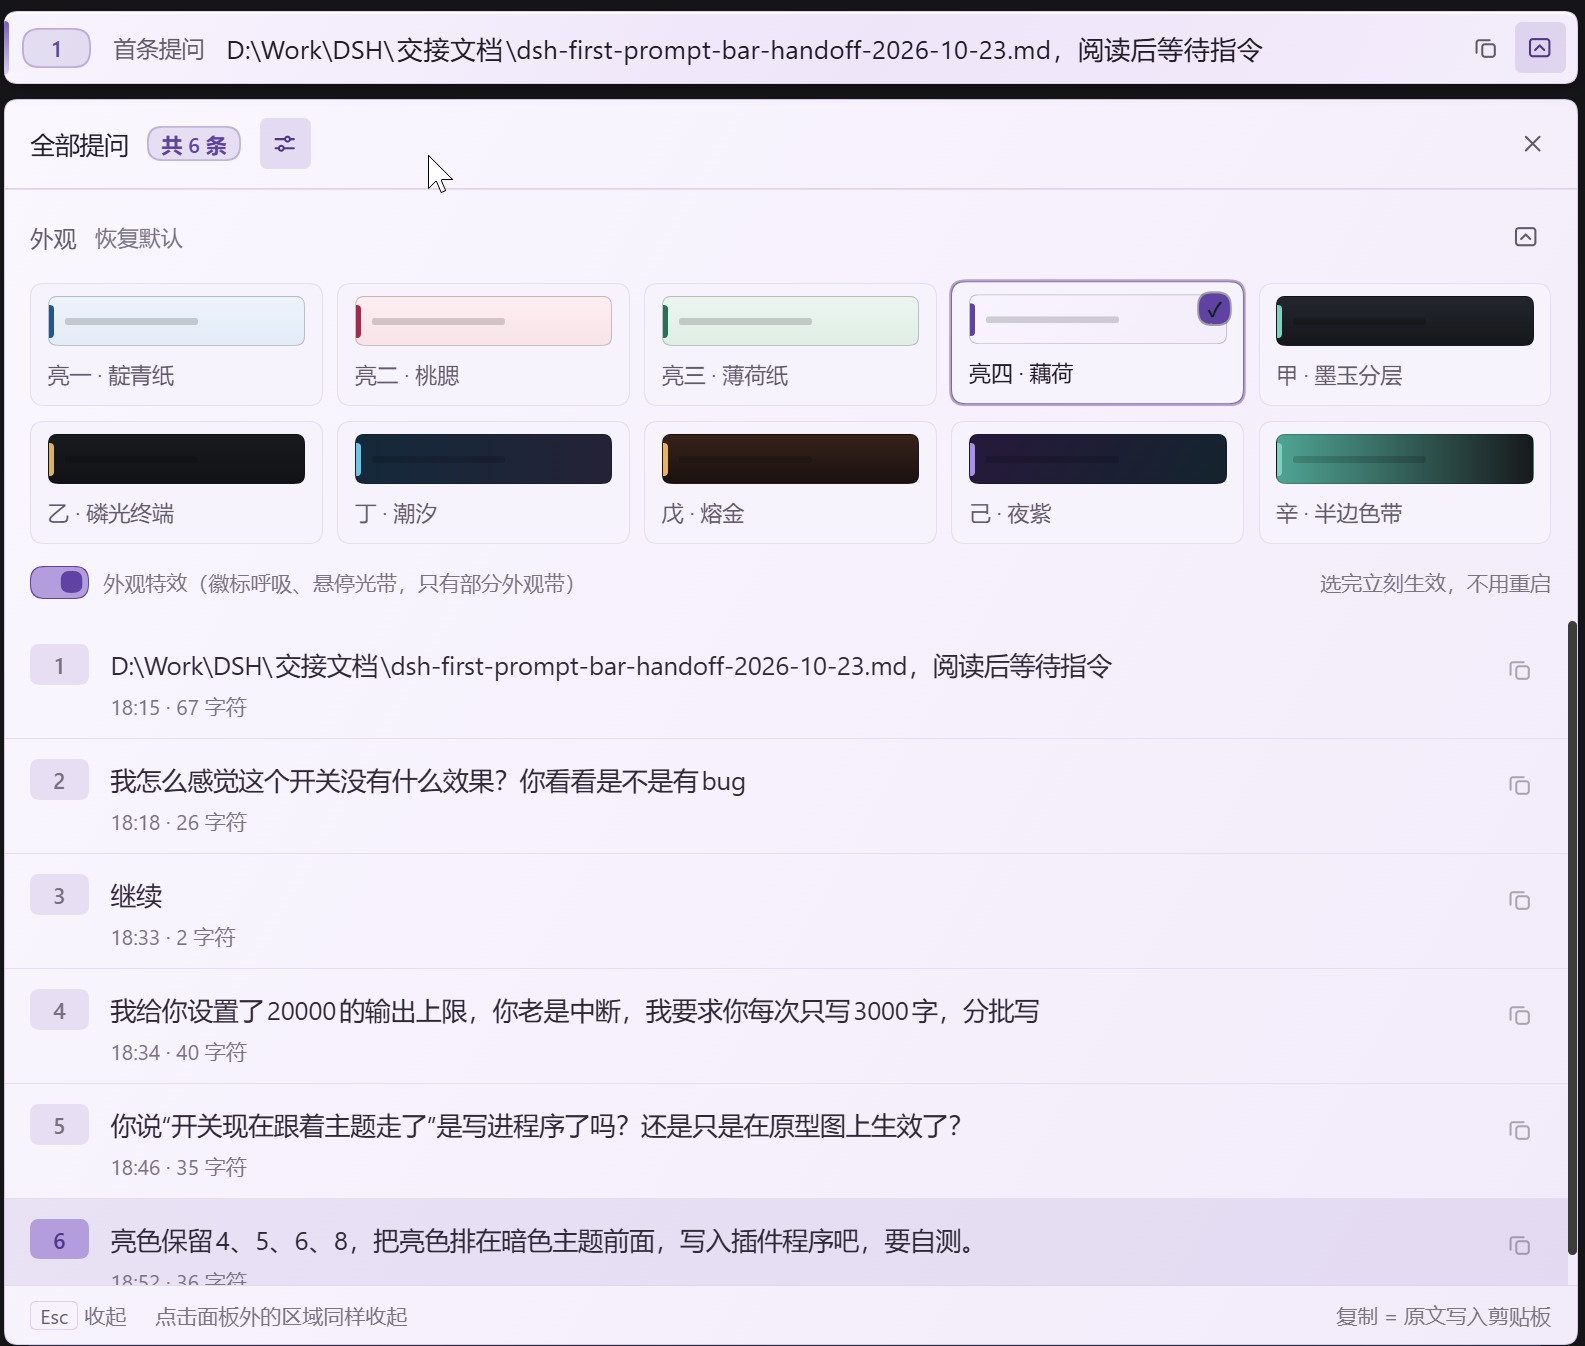
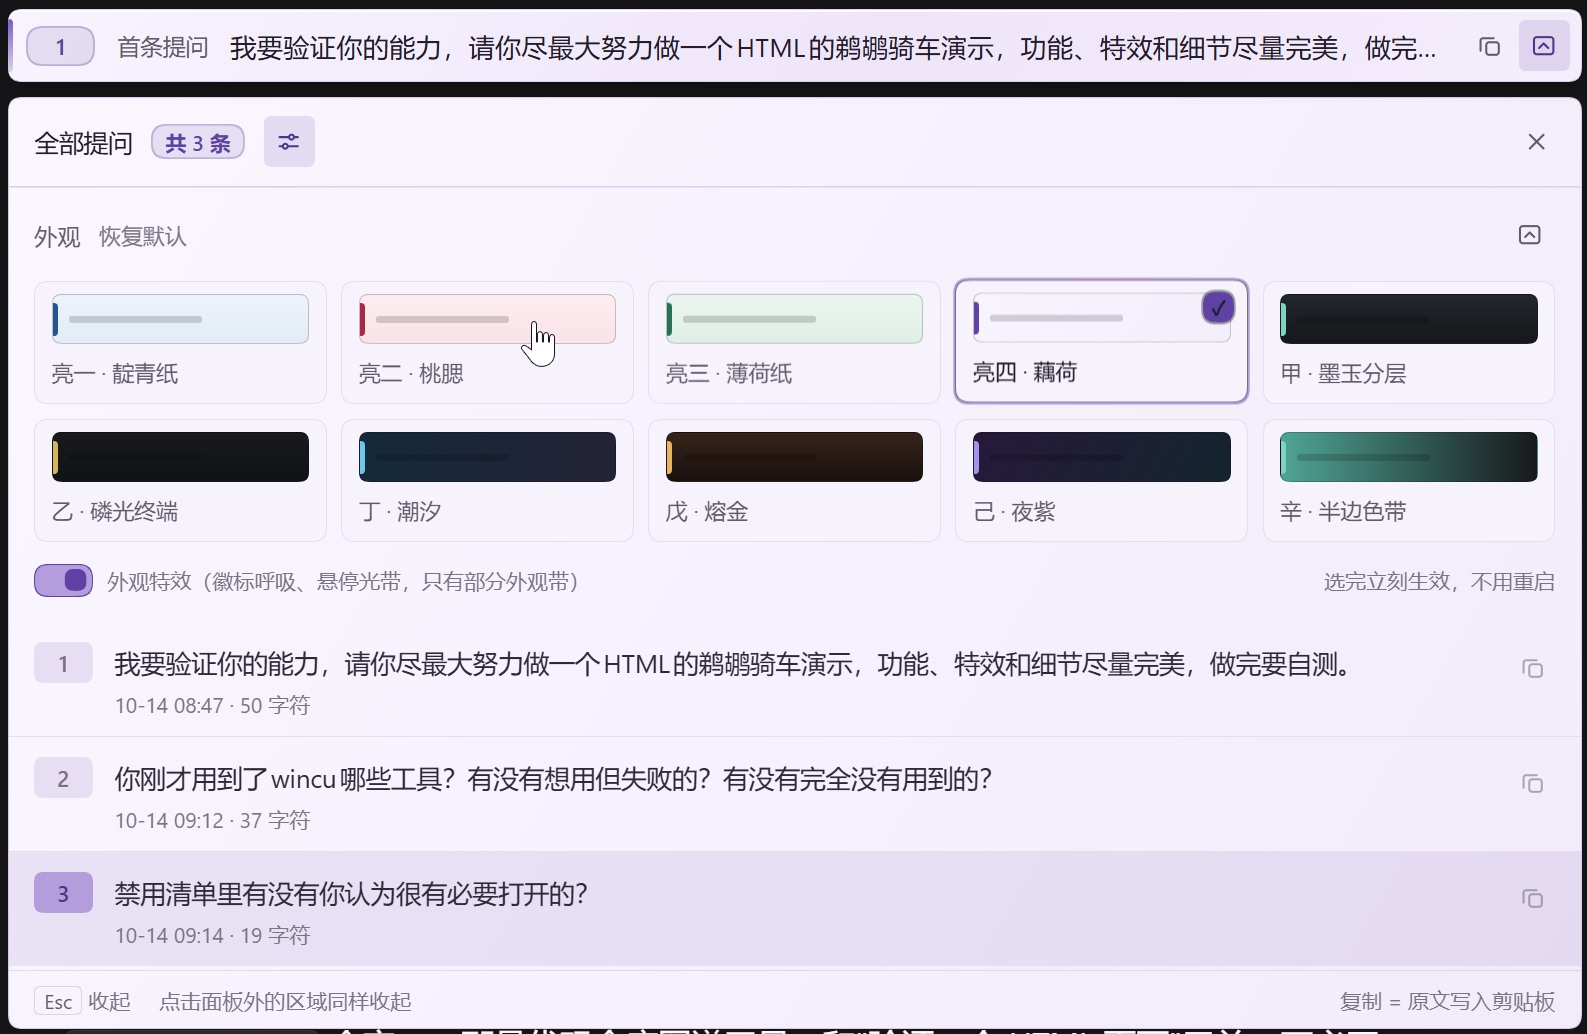
docs: swap the appearance-picker screenshot for the corrected capture
Screenshot 3 was the wrong capture; it is replaced with the intended one (ten-look picker, 亮四 · 藕荷 in use, cursor resting on the 亮二 · 桃腮 tile), and both READMEs now mention that cursor position. lib/ is unchanged; 0.8.1 because npm refuses a republish of 0.8.0.

Changed region(s): [[0.0, 0.0, 1.0, 1.0]]

diff --git a/README.md b/README.md
@@ -14,7 +14,7 @@ This plugin lets you see (and copy) the first prompt you sent in a DSH agent ses
 
 ![Expanded panel: every prompt sent in this session, each with a copy icon](assets/screenshot-panel-expanded.jpg)
 
-**3 — Appearance picker.** The slider icon in the panel header (left of ×, lit here because the picker is open) opens an appearance picker directly under the header: ten looks — **four light ones first, then six dark ones** — each drawn as a mini preview of the bar, with **Reset** beside the section title `外观` ("appearance"). The look in use — `亮四 · 藕荷` here, a pale lilac — is outlined and carries a check badge in its corner, and the pinned bar at the top of the shot is wearing exactly that look. The switch on the bottom row turns the motion effects on or off without touching any color; the label says plainly which effects exist at all (badge glow, copy flash, hover light sweep — only some looks have them, and the sweeping band is on 亮一 · 靛青纸 and 亮二 · 桃腮). Clicking a swatch repaints the bar on the spot — no restart, no reload — and the pick is remembered for the next time you open DSH.
+**3 — Appearance picker.** The slider icon in the panel header (left of ×, lit here because the picker is open) opens an appearance picker directly under the header: ten looks — **four light ones first, then six dark ones** — each drawn as a mini preview of the bar, with **Reset** beside the section title `外观` ("appearance"). The look in use — `亮四 · 藕荷` here, a pale lilac — is outlined and carries a check badge in its corner, and the pinned bar at the top of the shot is wearing exactly that look; the cursor is resting on the `亮二 · 桃腮` tile. The switch on the bottom row turns the motion effects on or off without touching any color; the label says plainly which effects exist at all (badge glow, copy flash, hover light sweep — only some looks have them, and the sweeping band is on 亮一 · 靛青纸 and 亮二 · 桃腮). Clicking a swatch repaints the bar on the spot — no restart, no reload — and the pick is remembered for the next time you open DSH.
 
 ![Appearance picker: ten looks (four light first) as mini bar previews, the one in use ticked](assets/screenshot-appearance-picker.jpg)
 

diff --git a/README.zh.md b/README.zh.md
@@ -14,7 +14,7 @@
 
 ![面板展开：列出用户发过的每一条提问，每行带复制图标](assets/screenshot-panel-expanded.jpg)
 
-**3 — 外观选择器。** 面板头里 × 左边的滑杆图标（图里亮着，因为选择器正开着）在面板头正下方展开一块外观区：十套外观——**前四套是亮色、后六套是深色**，每格都是那一套的迷你常驻条预览，标题 `外观` 右边是**恢复默认**。当前在用的那套——图中是 `亮四 · 藕荷`，淡紫底——带描边、右上角挂一个勾，画面最上面那条常驻条此刻正是这套底色。下面那行开关只管动效、不动任何颜色，标签也照直写明到底哪些外观带动效（徽标呼吸、复制闪光在 `乙 · 磷光终端`，悬停时光带在 `亮一 · 靛青纸` 与 `亮二 · 桃腮`）；点一格当场换装，不用重启、不用刷新，而且下次打开 DSH 还是这套。
+**3 — 外观选择器。** 面板头里 × 左边的滑杆图标（图里亮着，因为选择器正开着）在面板头正下方展开一块外观区：十套外观——**前四套是亮色、后六套是深色**，每格都是那一套的迷你常驻条预览，标题 `外观` 右边是**恢复默认**。当前在用的那套——图中是 `亮四 · 藕荷`，淡紫底——带描边、右上角挂一个勾，画面最上面那条常驻条此刻正是这套底色；鼠标此刻停在 `亮二 · 桃腮` 那一格上。下面那行开关只管动效、不动任何颜色，标签也照直写明到底哪些外观带动效（徽标呼吸、复制闪光在 `乙 · 磷光终端`，悬停时光带在 `亮一 · 靛青纸` 与 `亮二 · 桃腮`）；点一格当场换装，不用重启、不用刷新，而且下次打开 DSH 还是这套。
 
 ![外观选择器：十套外观（前四套亮色）的迷你预览，在用的那套带勾](assets/screenshot-appearance-picker.jpg)
 
